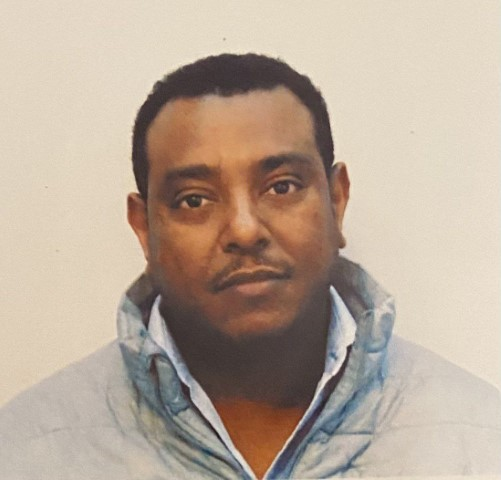
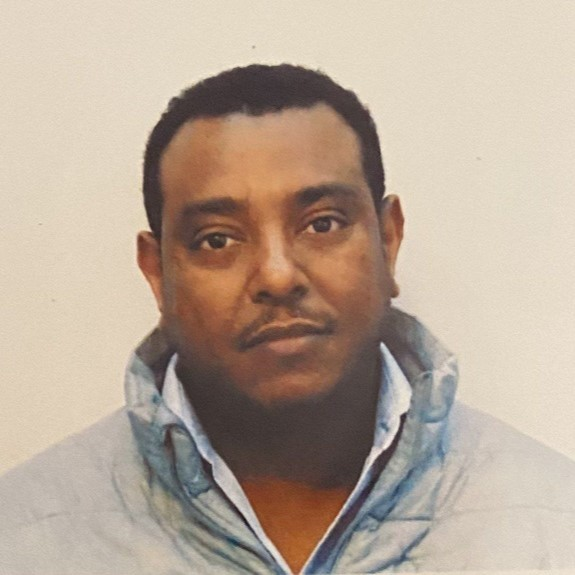
refactored code

diff --git a/next/src/components/meet-the-team.js b/next/src/components/meet-the-team.js
@@ -26,7 +26,7 @@ function MeetTeam() {
             <div>
               <Image
                 className="w-full rounded-full"
-                src="/img/team/mikias2.jpg"
+                src="/img/team/mikias.jpg"
                 alt="Mikias Worash"
                 width={200}
                 height={200}
@@ -150,10 +150,12 @@ function MeetTeam() {
 
           <div className="items-center bg-veryLightGray hover:bg-veryPaleRed dark:bg-gray-700 dark:hover:bg-gray-600 rounded-lg shadow sm:flex ">
             <div>
-              <img
+              <Image
                 className="w-full rounded-full"
-                src="https://flowbite.s3.amazonaws.com/blocks/marketing-ui/avatars/michael-gouch.png"
-                alt="Khalil Abdurehman"
+                src="/img/user.png"
+                alt="Khalil A"
+                width={200}
+                height={200}
               />
             </div>
             <div className="p-5">
@@ -205,10 +207,12 @@ function MeetTeam() {
 
           <div className="items-center bg-veryLightGray hover:bg-veryPaleRed dark:bg-gray-700 dark:hover:bg-gray-600 rounded-lg shadow sm:flex ">
             <div>
-              <img
+              <Image
                 className="w-full rounded-full"
-                src="https://flowbite.s3.amazonaws.com/blocks/marketing-ui/avatars/michael-gouch.png"
-                alt="Ismail"
+                src="/img/user.png"
+                alt="ismail"
+                width={200}
+                height={200}
               />
             </div>
             <div className="p-5">
@@ -217,8 +221,8 @@ function MeetTeam() {
               </h3>
               <span>UI/UX & MERN Instructor</span>
               <p className="mt-3 mb-4 text-darkGrayishBlue dark:text-gray-300">
-                Highly skilled UI/UX instructor who has a deep understanding of
-                how to create intuitive and user-friendly interfaces.
+                Skilled UI/UX instructor who has a deep understanding of how to
+                create intuitive and user-friendly interfaces.
               </p>
               <ul className="flex space-x-4 sm:mt-0">
                 <li>

diff --git a/next/src/pages/courses/addCourse.js b/next/src/pages/courses/addCourse.js
@@ -165,7 +165,7 @@ function addCourse(props) {
               id="tuition"
               name="tuition"
               className="block p-3 w-full text-sm text-gray-900 bg-gray-50 rounded-lg border border-gray-300 shadow-sm focus:ring-primary-500 focus:border-primary-500 dark:bg-gray-700 dark:border-gray-600 dark:placeholder-gray-400 dark:text-white"
-              placeholder="Enter Tuition Fee"
+              placeholder="Enter tuition fee"
               required
               onChange={handleChange}
               value={tuition}
@@ -199,7 +199,7 @@ function addCourse(props) {
               htmlFor="scholarship"
               className="block mb-2 text-sm text-left font-medium dark:text-gray-400"
             >
-              Scholarship Availability
+              Scholarship
             </label>
             <select
               id="scholarship"

diff --git a/next/src/pages/mission.js b/next/src/pages/mission.js
@@ -58,15 +58,6 @@ export default function mission() {
             and engaging learning environment.
           </p>
         </div>
-        {/* <div className="text-center mx-auto">
-     <p>
-       In this page, you can read more about our mission and values, as well
-       as our approach to education and training. You'll also find
-       information about our team, including bios and photos of our
-       instructors and staff. We're proud to have a diverse and talented team
-       of professionals who are dedicated to helping our students succeed.
-     </p>
-   </div> */}
         <div className="text-center mx-auto">
           <p>
             Finally, we invite you to get in touch with us if you have any

diff --git a/next/src/components/auth/auth-form.js b/next/src/components/auth/auth-form.js
@@ -1,12 +1,10 @@
 import { useState, useRef } from 'react'
-import { signIn, useSession } from 'next-auth/react'
+import { signIn } from 'next-auth/react'
 import { useRouter } from 'next/router'
 // import { route } from 'next/dist/next-server/server/router'
 import { toast } from 'react-toastify'
-import Link from 'next/link'
 
 function AuthForm() {
-  const { data: session } = useSession()
   const [isLogin, setIsLogin] = useState(true)
 
   const [formData, setFormData] = useState({

diff --git a/next/src/pages/courses/viewCourses.js b/next/src/pages/courses/viewCourses.js
@@ -29,7 +29,7 @@ function viewCourses({ courses, role }) {
         <div className="text-center py-24">
           <h2 className="text-4xl mb-2 font-bold">Your Courses</h2>
           <p className="font-light text-gray-500 mb-4 sm:text-xl dark:text-gray-400">
-            Swipe and explore through courses you are currently{' '}
+            Swipe through the courses you are currently{' '}
             {role == 'user' ? 'taking' : 'teaching'}
           </p>
           <Swiper

diff --git a/next/src/components/hero-section.js b/next/src/components/hero-section.js
@@ -26,7 +26,7 @@ export default function Hero() {
               </a>
             </div>
           </div>
-          {/* Image for bootcamp  */}
+          {/* Images for bootcamp  */}
           <div className="hidden lg:flex flex-col md:w-2/3 items-center ">
             <img
               src="img/cover1.jpg"

diff --git a/next/src/pages/courses/[id].js b/next/src/pages/courses/[id].js
@@ -1,5 +1,4 @@
 import { getSession } from 'next-auth/react'
-import { useEffect, useState } from 'react'
 import { useRouter } from 'next/router'
 import Link from 'next/link'
 import Spinner from '@/components/layout/Spinner'
